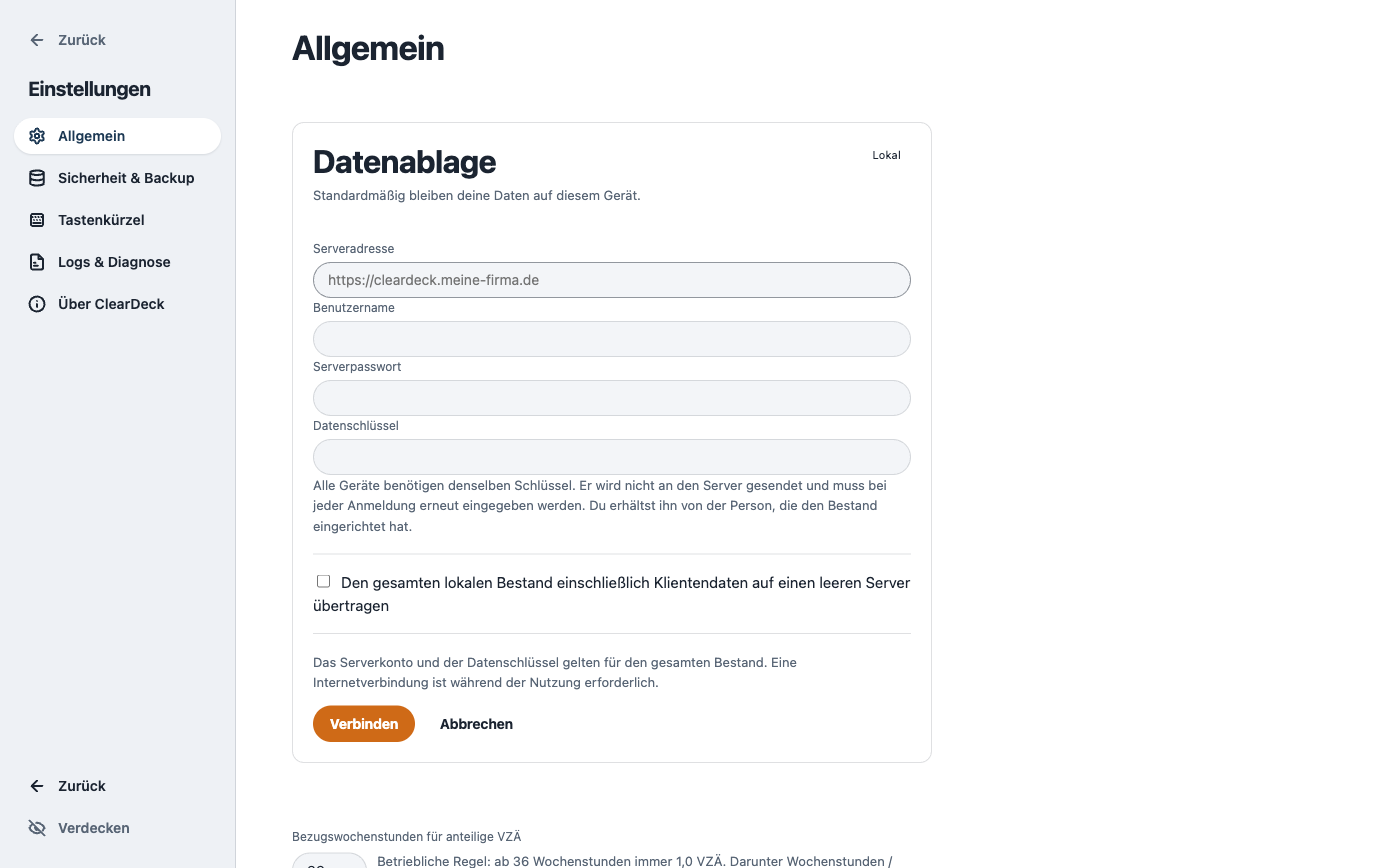
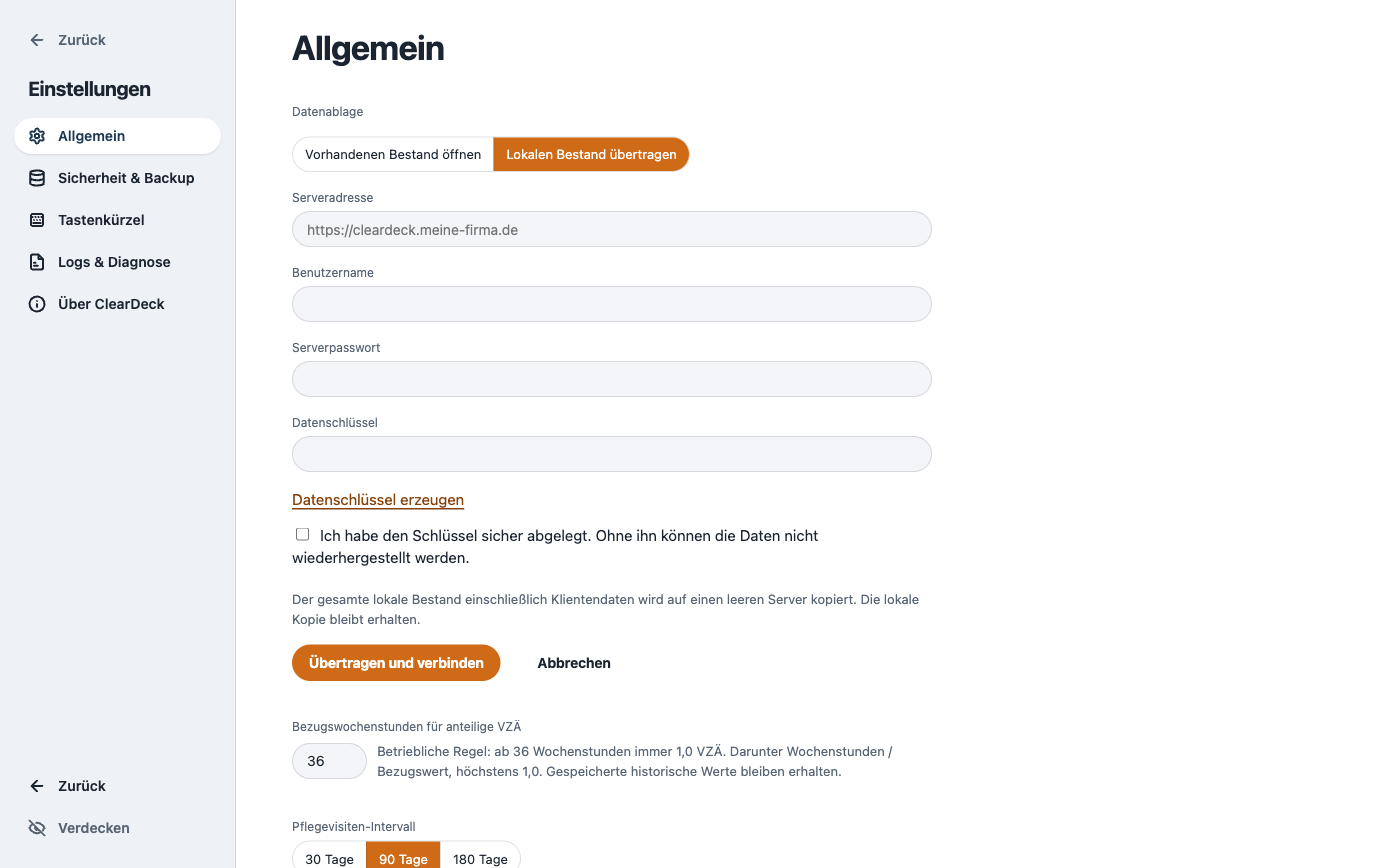
Refresh screenshots and documentation for simplified settings

diff --git a/docs/server-mode-verification.md b/docs/server-mode-verification.md
@@ -10,6 +10,12 @@ Stand: 13.09.2026, Branch `feature/server-mode`.
 
 Die neuen Tests prüfen unter anderem falsche Schlüssel und Passwörter, lokale Dateitrennung, explizite Erstübertragung, Reader-Schreibschutz, Revisionskonflikte, fehlgeschlagene Konfigurationsspeicherung sowie wartende Datenaktionen beim Wechsel oder Neuladen.
 
+## Überarbeitete Einstellungen
+
+Die Datenablage und Update-Quelle folgen den bestehenden Formularen ohne zusätzliche Karten oder Statusuntertitel. Beim Verbinden stehen vorhandener Serverbestand und lokale Erstübertragung als getrennte Optionen am Anfang. Abbrechen löscht die eingegebenen Geheimnisse und die Bestätigung zur Schlüsselsicherung. Der Rückwechsel zum lokalen Bestand erklärt vor der Bestätigung, dass Serveränderungen nicht übernommen werden.
+
+Für diese Überarbeitung sind TypeScript, Lint und 578 Desktoptests in 88 Dateien erfolgreich. Die Komponententests prüfen auch den direkten Formulareinstieg vom Anmeldebildschirm, das Zurücksetzen nach Abbruch, die Rückwechselbestätigung und bereinigte Fehlermeldungen beim Speichern der Update-Quelle.
+
 ## Laufender Electron-Client mit PostgreSQL
 
 Die Serverchecks liefen zusätzlich erfolgreich: neun HTTP-/Passworttests, der separat gestartete PostgreSQL-Integrationslauf, Docker-Image-Build und Caddy-Konfigurationsprüfung. Der Integrationslauf prüft konkurrierende Schreibvorgänge, Persistenz, Rollen, Widerruf und die Sperre alter Sitzungen nach Erneuerung der Instanz-ID. `npm audit --omit=dev` im Serverpaket meldete keine bekannten Schwachstellen.

diff --git a/docs/reviews/assets/server-mode/README.md b/docs/reviews/assets/server-mode/README.md
@@ -4,13 +4,15 @@ Echte Electron-Aufnahmen aus dem Branch `feature/server-mode`, aufgenommen am 13
 
 Der Ablauf wurde mit `CLEARDECK_DEMO_DEBUG=1 npm run demo` und CDP auf dem laufenden Electron-Fenster geprüft. Für den Server lief ein eigener temporärer PostgreSQL-16-Container auf Loopback mit den synthetischen Konten `qa-editor` und `qa-reader`. Der Container und der lokale API-Prozess wurden nach der Aufnahme beendet und entfernt.
 
+Die Aufnahmen zeigen die vereinfachten Einstellungen aus `d3309bf` ohne zusätzliche Karten. Hinweise zur Übertragung und zum Rückwechsel erscheinen beim jeweiligen Schritt.
+
 Die Aufnahmen zeigen:
 
 - [01 – lokales Dashboard](01-local-dashboard.png)
 - [02 – lokale Datenablage](02-local-settings.png)
-- [03 – Verbindungsformular mit leeren Zugangsfeldern](03-connection-empty.png)
+- [03 – Erstübertragung mit leeren Zugangsfeldern](03-connection-empty.png)
 - [04 – verbundener Editor](04-connected-editor.png)
 - [05 – verbundener Reader](05-connected-reader.png)
-- [06 – Rückwechsel zum lokalen Bestand](06-return-local.png)
+- [06 – Bestätigung vor dem Rückwechsel zum lokalen Bestand](06-return-local.png)
 
 In den Review-Bildern ist kein Serverpasswort und kein Datenschlüssel sichtbar. Die URL ist ausschließlich eine lokale Loopback-Adresse; Patienten-, Konto- und Organisationsdaten sind synthetisch.

diff --git a/docs/reviews/assets/windows-update-recovery/README.md b/docs/reviews/assets/windows-update-recovery/README.md
@@ -1,3 +1,3 @@
 # Update-Quelle
 
-Aufnahme aus ClearDeck 2.2.1 im lokalen Demo-Profil. Das Formular verwendet den vorbelegten Repository-Link und enthält keinen Zugriffstoken. Die Ansicht und das Speichern ohne Token wurden in der laufenden Electron-App geprüft. Der angezeigte Updatezustand ist kein Nachweis eines erfolgreichen Windows-Updates.
+Aufnahme der vereinfachten Update-Einstellungen aus ClearDeck 2.2.1, Stand `d3309bf`, im lokalen Demo-Profil. Das Formular verwendet den vorbelegten Repository-Link und enthält keinen Zugriffstoken. Die Ansicht und das Speichern ohne Token wurden in der laufenden Electron-App geprüft. Der angezeigte Updatezustand ist kein Nachweis eines erfolgreichen Windows-Updates.
